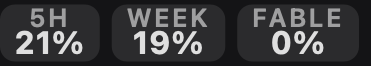
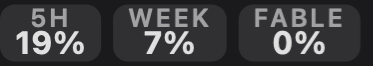
Update the README pictures for the plan and token sections

diff --git a/tools/menubar-images.swift b/tools/menubar-images.swift
@@ -1,0 +1,41 @@
+import AppKit
+
+// Renders docs/menubar.png and docs/menubar-long.png from StatusIcon itself, so
+// the README pictures can never drift from what the app draws. Run via
+// tools/make-menubar-images.sh.
+
+let out = CommandLine.arguments[1]
+let scale: CGFloat = 3
+// The dark menu bar, as the earlier screenshots had it.
+let background = NSColor(srgbRed: 0.101, green: 0.102, blue: 0.113, alpha: 1)
+
+// The numbers shown in the pictures.
+let limits = [
+    Limit(key: "five_hour", title: "5-hour window", short: "5H", utilization: 19, resetsAt: nil, order: 0),
+    Limit(key: "seven_day", title: "Weekly", short: "WEEK", utilization: 7, resetsAt: nil, order: 1),
+    Limit(key: "iguana_necktie", title: "Weekly Fable", short: "FABLE", utilization: 0, resetsAt: nil, order: 2),
+]
+let extra = ExtraUsage(utilization: 21, used: "$8.32", limit: "$40.00")
+
+func write(_ icon: NSImage, to name: String) {
+    let width = Int((icon.size.width * scale).rounded(.up))
+    let height = Int(icon.size.height * scale)
+    let rep = NSBitmapImageRep(bitmapDataPlanes: nil, pixelsWide: width, pixelsHigh: height,
+                               bitsPerSample: 8, samplesPerPixel: 4, hasAlpha: true, isPlanar: false,
+                               colorSpaceName: .deviceRGB, bytesPerRow: 0, bitsPerPixel: 0)!
+    NSGraphicsContext.saveGraphicsState()
+    NSGraphicsContext.current = NSGraphicsContext(bitmapImageRep: rep)
+    // The icon's colours are the system's dynamic ones: draw as dark mode.
+    NSAppearance(named: .darkAqua)!.performAsCurrentDrawingAppearance {
+        background.setFill()
+        NSRect(x: 0, y: 0, width: width, height: height).fill()
+        icon.draw(in: NSRect(x: 0, y: 0, width: icon.size.width * scale, height: icon.size.height * scale))
+    }
+    NSGraphicsContext.restoreGraphicsState()
+    try! rep.representation(using: .png, properties: [:])!
+        .write(to: URL(fileURLWithPath: "\(out)/\(name).png"))
+}
+
+write(StatusIcon.image(for: limits, extra: extra, showsPercentage: false, status: nil), to: "menubar")
+write(StatusIcon.image(for: limits, extra: extra, showsPercentage: true, status: nil), to: "menubar-long")
+print("wrote \(out)/menubar.png and menubar-long.png")

diff --git a/README.md b/README.md
@@ -23,9 +23,10 @@ Tick **Show percentage** in the menu to swap the gauges for labelled percentages
 
 ![menu bar, long form](docs/menubar-long.png)
 
-Click it for the windows in full:
+Click it for the plan, every window in full, and the last week's tokens by day
+and by model — one tab per agent:
 
-<img src="docs/menu.png" width="330" alt="the menu">
+<img src="docs/menu-claude.png" width="330" alt="the menu, on the Claude tab">
 
 ## Install
 
@@ -231,6 +232,18 @@ bar, where you notice it without looking.
 
 Only needed when the mark changes; `build.sh` copies the existing `.icns` into
 the bundle.
+
+## The pictures
+
+`docs/menubar.png` and `docs/menubar-long.png` are drawn by the app's own
+`StatusIcon`, so they never drift from what it shows:
+
+```sh
+./tools/make-menubar-images.sh
+```
+
+`docs/menu-claude.png` is a screenshot of the open menu. A menu cannot be drawn offscreen,
+so retake it by hand when the menu changes.
 
 ## The mark
 
